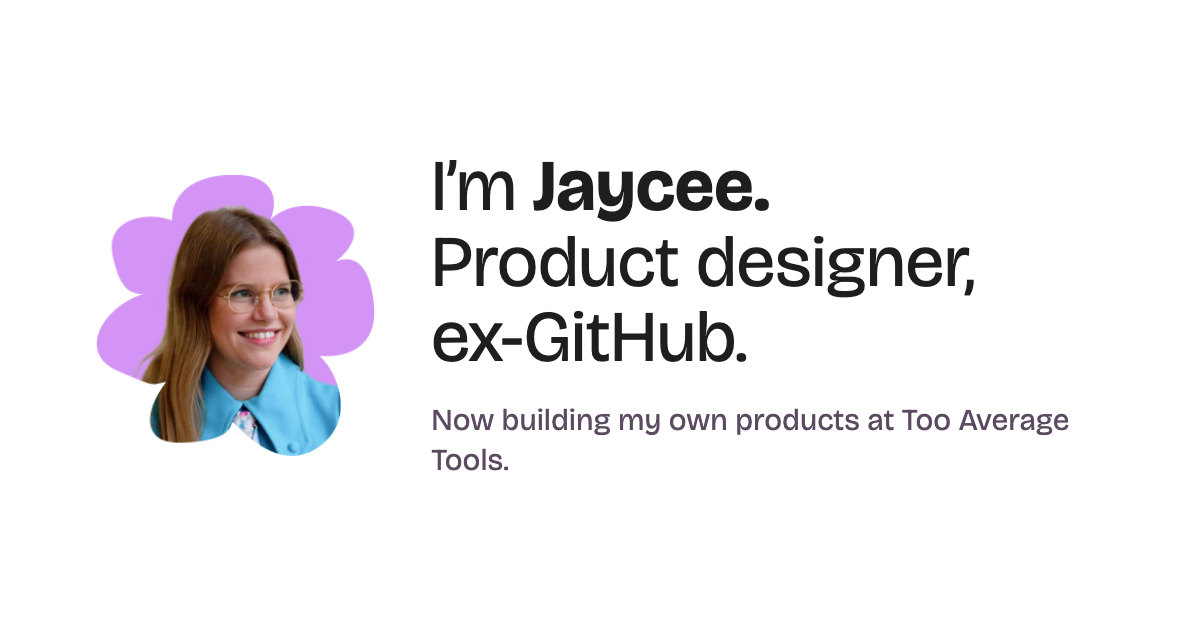
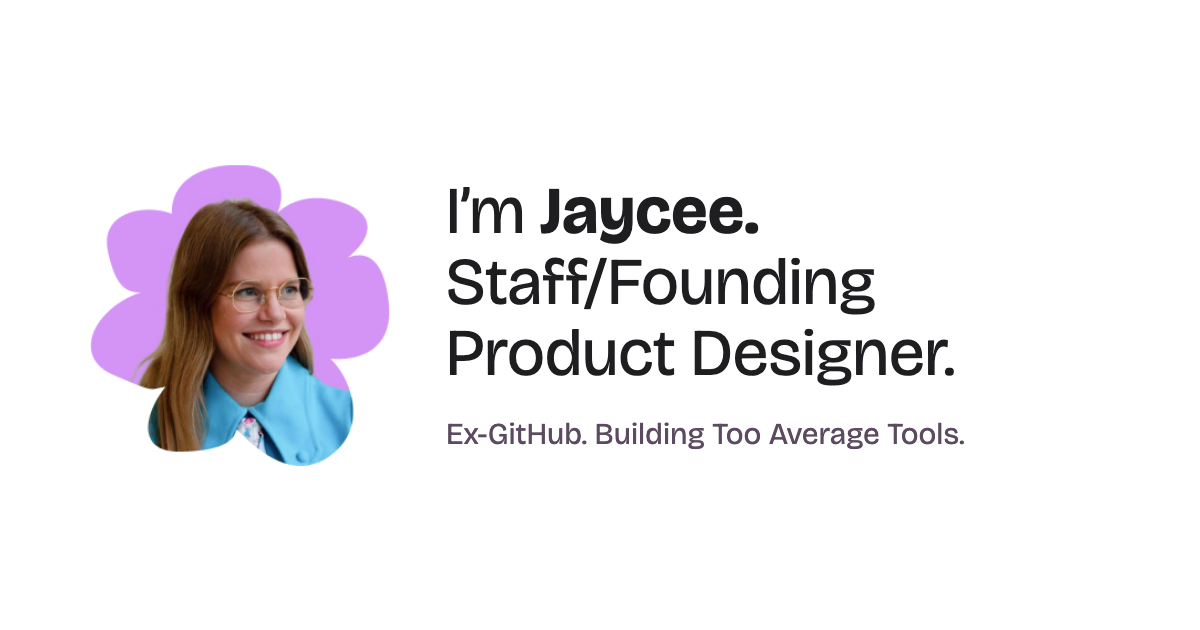
Headline: Staff/Founding Product Designer

diff --git a/index.html b/index.html
@@ -3,8 +3,8 @@
 <head>
     <meta charset="UTF-8">
     <meta name="viewport" content="width=device-width, initial-scale=1.0">
-    <title>Jaycee Day: product designer, ex-GitHub, building Too Average Tools</title>
-    <meta name="description" content="Product designer, formerly Staff Product Designer at GitHub. Now I build my own products at Too Average Tools and run Vancouver Design Leaders.">
+    <title>Jaycee Day: Staff and Founding Product Designer, ex-GitHub</title>
+    <meta name="description" content="Staff and Founding Product Designer, formerly at GitHub. Now I build my own products at Too Average Tools and run Vancouver Design Leaders.">
     <meta name="author" content="Jaycee Day">
     <meta name="robots" content="index, follow, max-image-preview:large">
     <meta name="referrer" content="strict-origin-when-cross-origin">
@@ -12,13 +12,13 @@
     <link rel="canonical" href="https://www.jayceeday.com/">
     <meta property="og:type" content="profile">
     <meta property="og:site_name" content="Jaycee Day">
-    <meta property="og:title" content="Jaycee Day: product designer, ex-GitHub">
+    <meta property="og:title" content="Jaycee Day: Staff and Founding Product Designer, ex-GitHub">
     <meta property="og:description" content="Formerly Staff Product Designer at GitHub. Now building my own products at Too Average Tools.">
     <meta property="og:url" content="https://www.jayceeday.com/">
     <meta property="og:image" content="https://www.jayceeday.com/og.png">
     <meta property="og:image:width" content="1200">
     <meta property="og:image:height" content="630">
-    <meta property="og:image:alt" content="Jaycee Day, product designer, with a lilac flower">
+    <meta property="og:image:alt" content="Jaycee Day, Staff and Founding Product Designer, with a lilac flower">
     <meta property="profile:first_name" content="Jaycee">
     <meta property="profile:last_name" content="Day">
     <meta name="twitter:card" content="summary_large_image">
@@ -49,7 +49,7 @@
         "url": "https://www.jayceeday.com/",
         "image": "https://www.jayceeday.com/assets/FlowerJay.png",
         "email": "mailto:hi@jayceeday.com",
-        "jobTitle": "Product designer",
+        "jobTitle": "Staff and Founding Product Designer",
         "description": "Product designer, formerly Staff Product Designer at GitHub. Now builds her own products at Too Average Tools and runs Vancouver Design Leaders, a meetup for senior designers in Vancouver.",
         "worksFor": { "@type": "Organization", "name": "Too Average Tools", "url": "https://tooaveragetools.com/" },
         "alumniOf": [
@@ -70,7 +70,7 @@
         <header class="profile-header">
             <img src="assets/FlowerJay.png" alt="Profile picture of Jaycee Day" class="profile-image" width="271" height="273">
             <div class="profile-title">
-                <h1>I’m <strong>Jaycee.</strong><span class="headline-rest">Product designer.</span></h1><p class="labs-note">I love to design, build and ship things, obviously.</p>
+                <h1>I’m <strong>Jaycee.</strong><span class="headline-rest">Staff/Founding Product Designer.</span></h1><p class="labs-note">I love to design, build and ship things, obviously.</p>
             </div>
         </header>
 
